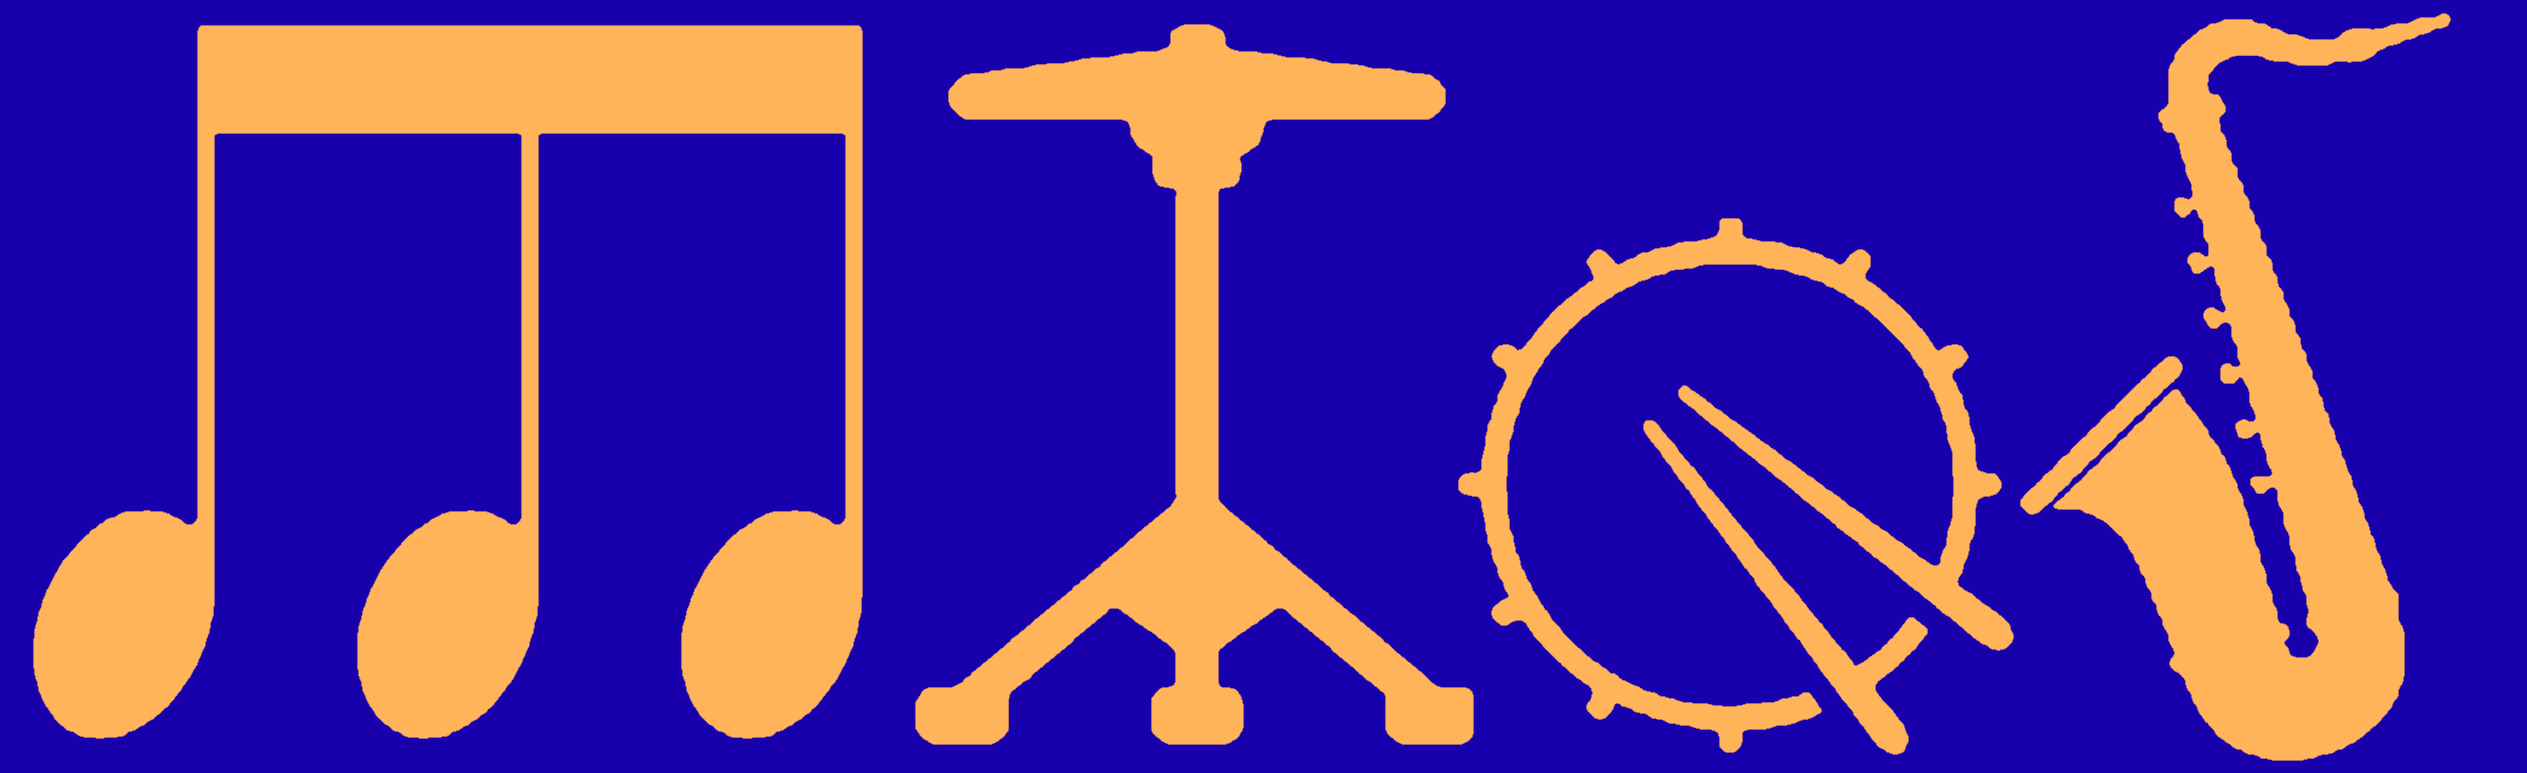
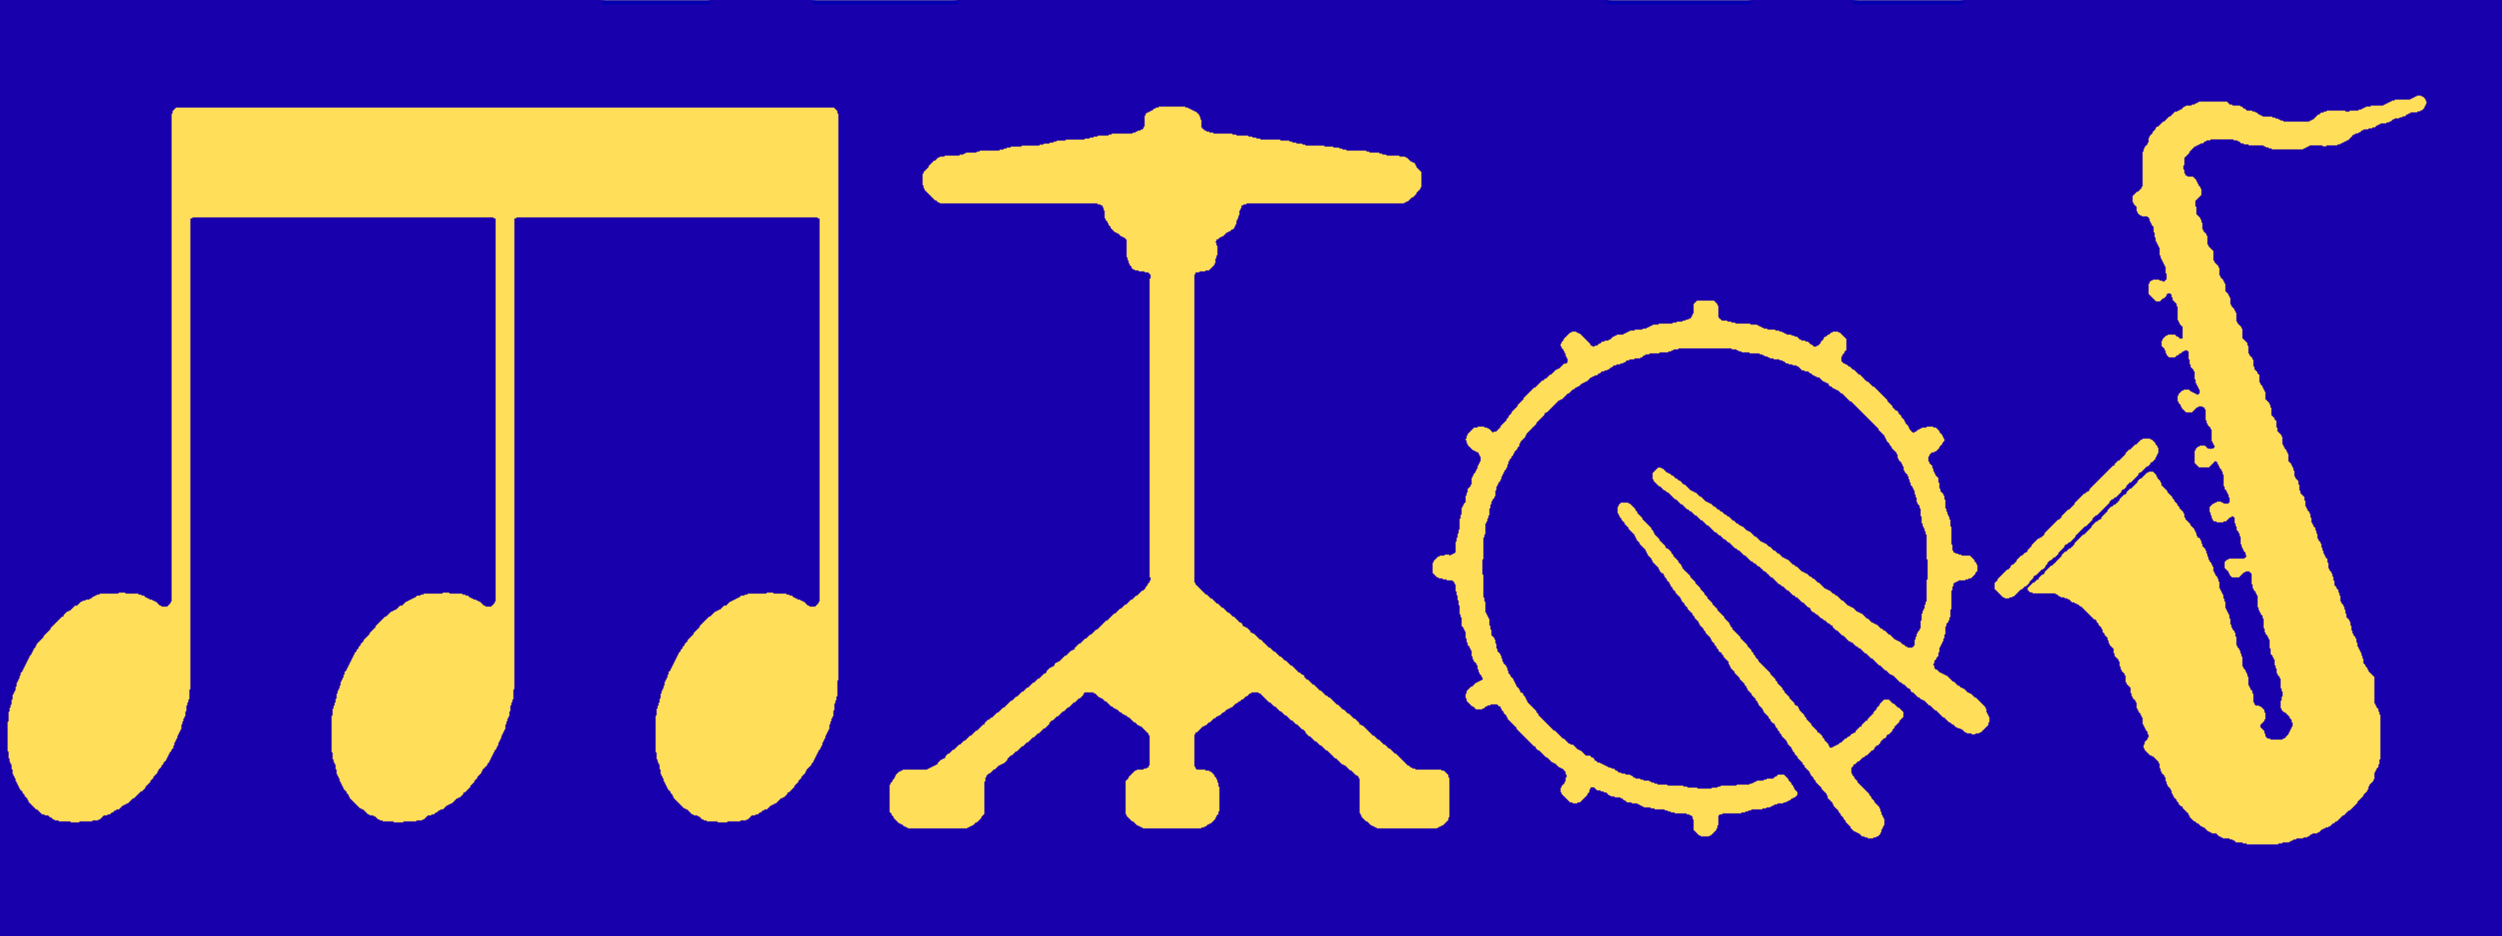
2.5
Changed footer, changed header, added new tutor, having issues with header on pages that aren't the main index page

diff --git a/assets/css/style.css b/assets/css/style.css
@@ -19,72 +19,74 @@ h1 {
     color: var(--orange-web);
 }
 
-/* .header-bar { */
-    /* background: linear-gradient(var(--oxford-blue), black); */
-    /* padding: 1.2rem 0; */
-    /* box-shadow: none; */
-    /* position: absolute; */
-    /* top: 0; */
-    /* left: 0; */
-    /* right: 0; */
-    /* z-index: 100; */
-/* } */
+.header-bar {
+	/* background: url('../img/MToSGlyphssolo.png') center/cover no-repeat; */
+    /* background: none; */
+    padding: 1.2rem 0;
+    box-shadow: none;
+    position: absolute;
+    top: 0;
+    left: 0;
+    right: 0;
+    z-index: 100;
+}
 
-/* .post-page .header-bar { */
+.post-page .header-bar {
     height: 100px;
-    /* position: relative; */
-    /* background: var(--oxford-blue); */
-    /* box-shadow: 0 2px 8px #0004; */
-/* } */
+    position: relative;
+    background: var(--oxford-blue);
+    box-shadow: 0 2px 8px #0004;
+}
 
-/* .header-bar .logo { */
-    /* font-size: 2.2rem; */
-    /* font-family: 'Montserrat', sans-serif; */
-    /* color: var(--orange-web); */
-    /* font-weight: bold; */
-    /* letter-spacing: 2px; */
-    /* margin-left: 2rem; */
-    /* text-shadow: 0 2px 8px rgba(0, 0, 0, 0.5); */
-/* } */
+.header-bar .logo {
+    font-size: 2.2rem;
+    font-family: 'Montserrat', sans-serif;
+    color: var(--orange-web);
+    font-weight: bold;
+    letter-spacing: 2px;
+    margin-left: 2rem;
+    text-shadow: 0 2px 8px rgba(0, 0, 0, 0.5);
+}
+}
 
-/* .header-bar .logo a { */
-    /* color: var(--orange-web); */
-    /* text-decoration: none; */
-/* } */
+.header-bar .logo a {
+    color: var(--orange-web);
+    text-decoration: none;
+}
 
-/* .nav { */
-    /* float: right; */
-    /* margin-right: 2rem; */
-    /* display: flex; */
-    /* align-items: center; */
-/* } */
+.nav {
+    float: right;
+    margin-right: 2rem;
+    display: flex;
+    align-items: center;
+}
 
-/* .nav a { */
-    /* color: var(--orange-web); */
-    /* margin: 0 1rem; */
-    /* text-decoration: none; */
-    /* font-weight: 600; */
-    /* font-size: 1.1rem; */
-    /* letter-spacing: 1px; */
-    /* transition: color 0.2s; */
-    /* position: relative; */
-    /* text-shadow: 0 1px 4px rgba(0, 0, 0, 0.5); */
-/* } */
+.nav a {
+    color: var(--orange-web);
+    margin: 0 1rem;
+    text-decoration: none;
+    font-weight: 600;
+    font-size: 1.1rem;
+    letter-spacing: 1px;
+    transition: color 0.2s;
+    position: relative;
+    text-shadow: 0 1px 4px rgba(0, 0, 0, 0.5);
+}
 
-/* .nav a.active, */
-/* .nav a:hover { */
-    /* color: var(--orange-web); */
-/* } */
+.nav a.active,
+.nav a:hover {
+    color: var(--orange-web);
+}
 
-/* .social-icons a { */
-    /* color: var(--orange-web); */
-    /* margin-left: 1rem; */
-    /* font-size: 1.4rem; */
-    /* transition: color 0.2s; */
-/* } */
+.social-icons a {
+    color: var(--orange-web);
+    margin-left: 1rem;
+    font-size: 1.4rem;
+    transition: color 0.2s;
+}
 
-/* .social-icons a:hover { */
-    /* color: var(--orange-web); */
+.social-icons a:hover {
+    color: var(--orange-web);
 }
 
 .hamburger-menu {
@@ -156,8 +158,8 @@ h1 {
 
 
 .hero-section {
-	background: url('../img/guitarpic.jpg') no-repeat;
-	background-size: 1920px 1080px;
+	background: url('../img/guitarpic.jpg') center/cover no-repeat;
+	/* background-size: 1920px 1080px; */
     overflow: hidden;
     display: flex;
     flex-direction: column;

diff --git a/_includes/footer.html b/_includes/footer.html
@@ -1,29 +1,29 @@
 <footer class="footer">
     <div class="footer-cols">
         <div class="footer-col">
-            <h4>Address</h4>
+            <h4>Constact Us</h4>
             <ul>
-                <li>Sydney, Australia</li>
-                <li>Email: <a href="mailto:coenwinchester.guitar@gmail.com">coenwinchester.guitar@gmail.com</a></li>
+                <!-- <li>Sydney, Australia</li> -->
+                <li>Email: <a href="mailto:coenwinchester@gmail.com">coenwinchester.guitar@gmail.com</a></li>
                 <li>Phone: <a href="tel:0411552976">0411 552 976</a></li>
             </ul>
         </div>
         <div class="footer-col">
             <h4>Useful Links</h4>
             <ul>
-                <li><a href="#pricing">Pricing</a></li>
-                <li><a href="#videos">Videos</a></li>
-                <li><a href="#faq">FAQ</a></li>
+                <li><a href="/articles">Find Your Tutor</a></li>
+                <li><a href="/index">Home</a></li>
+                <!-- <li><a href="#faq">FAQ</a></li> -->
             </ul>
         </div>
         <div class="footer-col">
-            <h4>Follow Me</h4>
-            <div class="social-links">
-                <a href="https://instagram.com/coenwinchester.guitar" target="_blank">Instagram</a>
+            <!-- <h4>Follow Me</h4> -->
+            <!-- <div class="social-links"> -->
+                <!-- <a href="https://instagram.com/coenwinchester.guitar" target="_blank">Instagram</a> -->
             </div>
         </div>
     </div>
-    <div class="copyright">&copy; 2025 Coen Winchester – All rights reserved.</div>
+    <div class="copyright">&copy; 2025 Coen Winchester Music Tuition – All rights reserved.</div>
 </footer>
 
 <script>

diff --git a/_includes/header.html b/_includes/header.html
@@ -1,21 +1,21 @@
-<!--
+
 <div class="header-bar">
-    <span class="logo"><a href="/">Music Tutors of Sydney</a></span>
+    <span class="logo"><img src="assets/img/MToSGlyphssolo.png" alt="MToS Glyphs" style="max-width:130px;max-height:100px" ></span>
     <nav class="nav">
-        <a href="/#pricing">Pricing</a>
-        <a href="/#videos">Videos</a>
+        <!-- <a href="/#pricing">Pricing</a> -->
         <a href="/articles">Find Your Tutor</a>
+		<a href="/index">Home</a>
         <!-- <a href="/#faq">FAQ</a> -->
-		<!--
-        <div class="social-icons">
-            <a href="https://instagram.com/coenwinchester.guitar" target="_blank"><i
-                    class="fab fa-instagram"></i></a>
-            <a href="https://twitter.com/coenwinchester" target="_blank"><i class="fab fa-twitter"></i></a>
+		
+        <!-- <div class="social-icons"> -->
+            <!-- <a href="https://instagram.com/coenwinchester.guitar" target="_blank"><i -->
+                    <!-- class="fab fa-instagram"></i></a> -->
+            <!-- <a href="https://twitter.com/coenwinchester" target="_blank"><i class="fab fa-twitter"></i></a> -->
         </div>
     </nav>
     <button class="hamburger-menu" aria-label="Open Menu"><i class="fas fa-bars"></i></button>
 </div>
--->
+
 <div class="mobile-menu-overlay">
     <button class="close-menu" aria-label="Close Menu">&times;</button>
     <nav class="mobile-nav">

diff --git a/index.html b/index.html
@@ -8,8 +8,7 @@ title: Music Tutors of Sydney
     <h1>By Tutors, For You</h1>
     <p>Unlock your musical potential with expert lessons for all ages and skill levels.<br>Online & In-Person |
         Friendly | Professional</p>
-    <a href="mailto:coenwinchester@gmail.com?subject=Guitar%20Lesson%20Booking" class="btn-primary">Book a
-        Lesson</a>
+    <a href="mailto:coenwinchester@gmail.com?subject=Guitar%20Lesson%20Booking" class="btn-primary">Contact Us</a>
     <!-- <div class="contact">Call/Text: <a href="tel:0411111222">0411 111 222</a></div> -->
 </section>
 
@@ -35,7 +34,7 @@ title: Music Tutors of Sydney
             {% for post in site.posts limit:3 %}
                 <li>
                     {% if post.hero_image %}
-                        <img src="{{ post.hero_image }}" alt="{{ post.title }}" style="max-width:100px;vertical-align:middle;">
+                        <img src="{{ post.hero_image }}" alt="{{ post.title }}" style="object-fit:cover;max-width:100px;height:100px;vertical-align:middle;">
                     {% endif %}
                     <div class="post-wrapper">
                     <a href="{{ post.url | relative_url }}">

diff --git a/_layouts/post.html b/_layouts/post.html
@@ -3,7 +3,7 @@
 
 <head>
     
-    <title>Coen Winchester Guitar Lessons - {{ page.title }}</title>
+    <title>Music Tutors of Sydney - {{ page.title }}</title>
 
     {% include metadata.html %}
 </head>

diff --git a/_layouts/default.html b/_layouts/default.html
@@ -2,7 +2,7 @@
 <html lang="en">
 
 <head>
-    <title>Coen Winchester Guitar Lessons</title>
+    <title>Music Tutors of Sydney</title>
 
     {% include metadata.html %}
 </head>

diff --git a/_posts/2025-09-07-test-article.md b/_posts/2025-09-07-test-article.md
@@ -1,16 +1,24 @@
 ---
 layout: post
-title: "Test Article: Guitar Tips"
+title: "Bon Lowe"
 date: 2025-09-07
 categories: blog
-hero_image: /assets/img/yt1.png
+hero_image: /assets/img/BonLowe.png
 excerpt: "Discover essential tips for beginner guitarists and how to make the most of your practice sessions."
 ---
 
 ![Guitar Hero Image](/assets/img/yt1.png)
 
-Lorem ipsum dolor sit amet, consectetur adipiscing elit. Pellentesque euismod, nisi eu consectetur consectetur, nisl nisi consectetur nisi, euismod euismod nisi nisi euismod.
+Bon has been playing drums for almost 10 years, performing to the public in live settings for over 6 years. They play a number of different genres ranging from metal to jazz 
+and is very comfortable in any style. Bon holds a Bachelor's degree in music from JMC academy in Sydney and in addition to teaching drums they also offer guitar and keyboard tuition.
 
-## Section Title
 
-More lorem ipsum text for demonstration purposes. This is a test article for your Jekyll blog.
+## Availabilities
+
+Bon offers lessons in-home, in-studio and online, any time, seven days a week.
+
+## Pricing
+
+Bon charges a flat rate of $60 per hour with a variety of lesson times available. 
+
+In home lessons incur a travel fee of $20 (average, can vary by distance).
